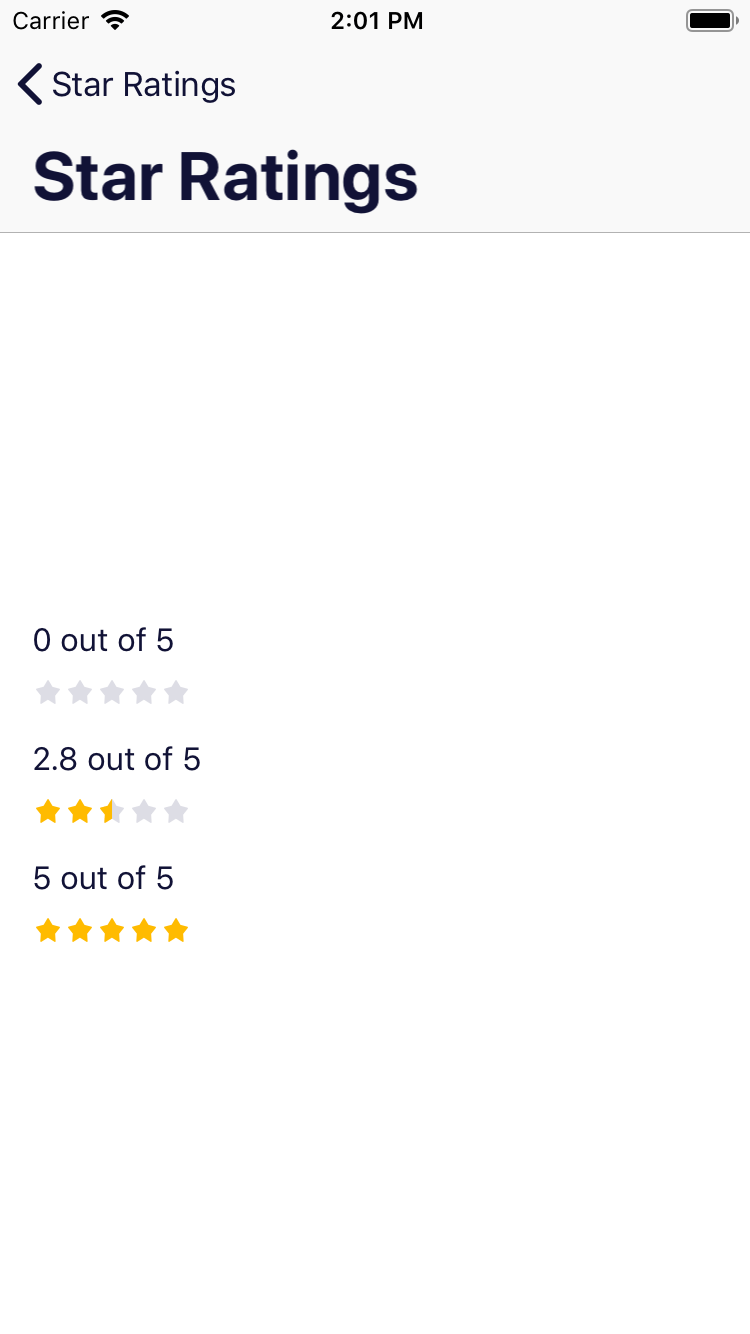
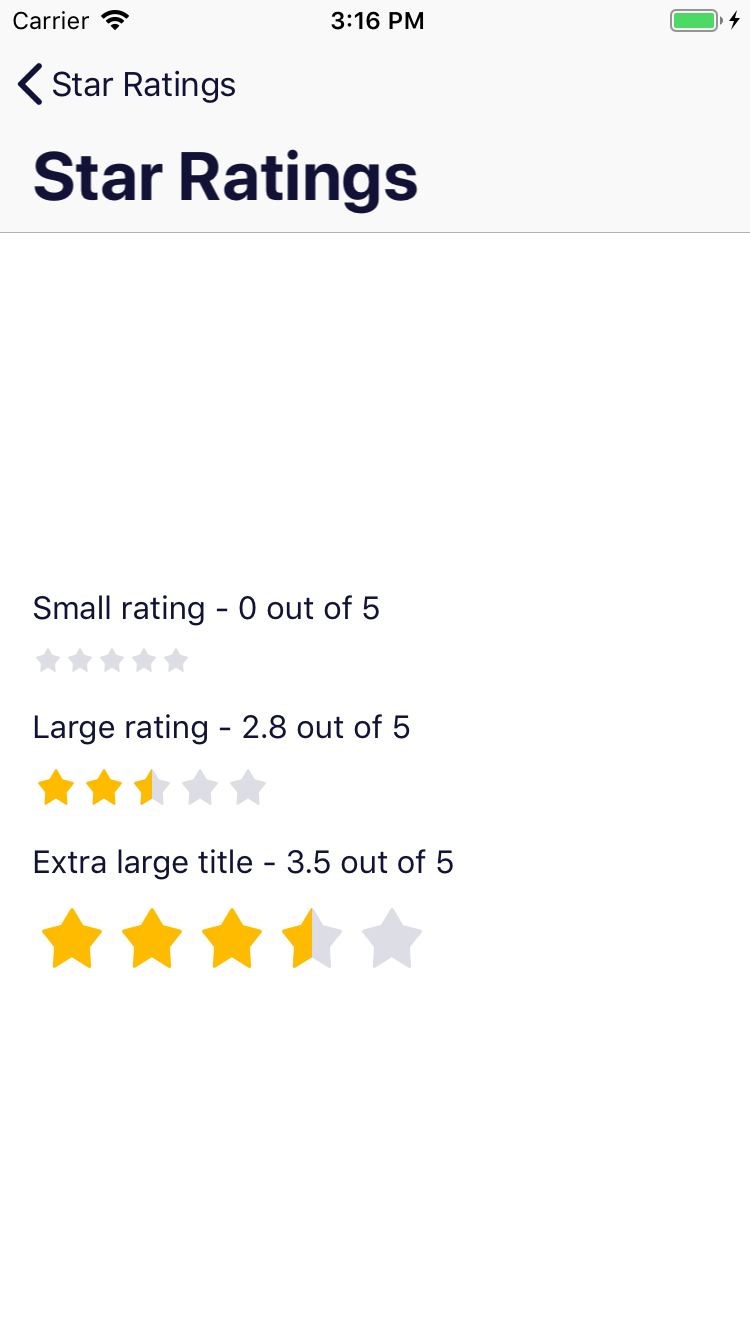
Star rating user interactive

diff --git a/Example/Backpack/View Controllers/StarRatingsDocViewController.swift b/Example/Backpack/View Controllers/StarRatingsDocViewController.swift
@@ -1,0 +1,47 @@
+//
+/*
+ * Backpack - Skyscanner's Design System
+ *
+ * Copyright © 2019 Skyscanner Ltd. All rights reserved.
+ *
+ * Licensed under the Apache License, Version 2.0 (the "License");
+ * you may not use this file except in compliance with the License.
+ * You may obtain a copy of the License at
+ *
+ *   http://www.apache.org/licenses/LICENSE-2.0
+ *
+ * Unless required by applicable law or agreed to in writing, software
+ * distributed under the License is distributed on an "AS IS" BASIS,
+ * WITHOUT WARRANTIES OR CONDITIONS OF ANY KIND, either express or implied.
+ * See the License for the specific language governing permissions and
+ * limitations under the License.
+ */
+
+import Foundation
+import Backpack
+
+class StarRatingsDocViewController: UIViewController {
+    @IBOutlet weak var smallRatingTitle: Label!
+    @IBOutlet weak var smallRating: StarRating!
+    @IBOutlet weak var largeRatingTitle: Label!
+    @IBOutlet weak var largeRating: StarRating!
+    @IBOutlet weak var extraLargeRatingTitle: Label!
+    @IBOutlet weak var extraLargeRating: StarRating!
+
+    override func viewDidLoad() {
+        // Setup titles
+        smallRatingTitle.text = "Small rating - 0 out of 5"
+        largeRatingTitle.text = "Large rating - 2.8 out of 5"
+        extraLargeRatingTitle.text = "Extra large title - 3.5 out of 5"
+
+        // Setup rating values
+        smallRating.rating = 0
+        largeRating.rating = 2.8
+        extraLargeRating.rating = 3.5
+
+        // Setup rating sizes
+        smallRating.size = .small
+        largeRating.size = .large
+        extraLargeRating.size = .xLarge
+    }
+}

diff --git a/Example/Backpack/View Controllers/StarRatingsViewController.swift b/Example/Backpack/View Controllers/StarRatingsViewController.swift
@@ -26,15 +26,19 @@ class StarRatingsViewController: UIViewController {
     @IBOutlet weak var starRatingView: StarRating!
     @IBOutlet weak var largeStarRatingView: StarRating!
     @IBOutlet weak var ratingSlider: UISlider!
+    @IBOutlet weak var extraLargeRatingView: StarRating!
     override func viewDidLoad() {
         starRatingView.rating = ratingSlider.value
         largeStarRatingView.rating = ratingSlider.value
         largeStarRatingView.size = .large
+        extraLargeRatingView.size = .xLarge
+        extraLargeRatingView.isUserInteractionEnabled = true
         updateLabels()
     }
     @IBAction func userDidChangeRating(_ sender: UISlider) {
         starRatingView.rating = sender.value
         largeStarRatingView.rating = sender.value
+        extraLargeRatingView.rating = sender.value
         updateLabels()
     }
     func updateLabels() {

diff --git a/Example/SnapshotTests/BPKStarRatingSnapshotTest.m b/Example/SnapshotTests/BPKStarRatingSnapshotTest.m
@@ -220,6 +220,100 @@
     [self verifyLargeRatingViewWithRating:6.0f];
 }
 
+#pragma mark - Extra Large star rating
+
+- (void)testExtraLargeStarRatingWithValue_minus {
+    [self verifyExtraLargeRatingViewWithRating:-1.0f];
+}
+
+- (void)testExtraLargeStarRatingWithValue_0_0 {
+    [self verifyExtraLargeRatingViewWithRating:0.0f];
+}
+
+- (void)testExtraLargeStarRatingWithValue_0_49 {
+    [self verifyExtraLargeRatingViewWithRating:0.49f];
+}
+
+- (void)testExtraLargeStarRatingWithValue_0_5 {
+    [self verifyExtraLargeRatingViewWithRating:0.5f];
+}
+
+- (void)testExtraLargeStarRatingWithValue_0_99 {
+    [self verifyExtraLargeRatingViewWithRating:0.99f];
+}
+
+- (void)testExtraLargeStarRatingWithValue_1_0 {
+    [self verifyExtraLargeRatingViewWithRating:1.0f];
+}
+
+- (void)testExtraLargeStarRatingWithValue_1_49 {
+    [self verifyExtraLargeRatingViewWithRating:1.49f];
+}
+
+- (void)testExtraLargeStarRatingWithValue_1_5 {
+    [self verifyExtraLargeRatingViewWithRating:1.5f];
+}
+
+- (void)testExtraLargeStarRatingWithValue_1_99 {
+    [self verifyExtraLargeRatingViewWithRating:1.99f];
+}
+
+- (void)testExtraLargeStarRatingWithValue_2_0 {
+    [self verifyExtraLargeRatingViewWithRating:2.0f];
+}
+
+- (void)testExtraLargeStarRatingWithValue_2_49 {
+    [self verifyExtraLargeRatingViewWithRating:2.49f];
+}
+
+- (void)testExtraLargeStarRatingWithValue_2_5 {
+    [self verifyExtraLargeRatingViewWithRating:2.5f];
+}
+
+- (void)testExtraLargeStarRatingWithValue_2_99 {
+    [self verifyExtraLargeRatingViewWithRating:2.99f];
+}
+
+- (void)testExtraLargeStarRatingWithValue_3_0 {
+    [self verifyExtraLargeRatingViewWithRating:3.0f];
+}
+
+- (void)testExtraLargeStarRatingWithValue_3_49 {
+    [self verifyExtraLargeRatingViewWithRating:3.49f];
+}
+
+- (void)testExtraLargeStarRatingWithValue_3_5 {
+    [self verifyExtraLargeRatingViewWithRating:3.5f];
+}
+
+- (void)testExtraLargeStarRatingWithValue_3_99 {
+    [self verifyExtraLargeRatingViewWithRating:3.99f];
+}
+
+- (void)testExtraLargeStarRatingWithValue_4_0 {
+    [self verifyExtraLargeRatingViewWithRating:4.0f];
+}
+
+- (void)testExtraLargeStarRatingWithValue_4_49 {
+    [self verifyExtraLargeRatingViewWithRating:4.49f];
+}
+
+- (void)testExtraLargeStarRatingWithValue_4_5 {
+    [self verifyExtraLargeRatingViewWithRating:4.5f];
+}
+
+- (void)testExtraLargeStarRatingWithValue_4_99 {
+    [self verifyExtraLargeRatingViewWithRating:4.99f];
+}
+
+- (void)testExtraLargeStarRatingWithValue_5_0 {
+    [self verifyExtraLargeRatingViewWithRating:5.0f];
+}
+
+- (void)testExtraLargeStarRatingWithValue_largerThan_5_0 {
+    [self verifyExtraLargeRatingViewWithRating:6.0f];
+}
+
 #pragma mark - Helpers
 
 - (void)verifySmallRatingViewWithRating:(float)rating {
@@ -228,6 +322,10 @@
 
 - (void)verifyLargeRatingViewWithRating:(float)rating {
     [self verifyRatingViewWithRating:rating size:BPKStarSizeLarge];
+}
+
+- (void)verifyExtraLargeRatingViewWithRating:(float)rating {
+    [self verifyRatingViewWithRating:rating size:BPKStarSizeXLarge];
 }
 
 - (void)verifyRatingViewWithRating:(float)rating size:(BPKStarSize)size {

diff --git a/Backpack/StarRating/Classes/BPKStarRating.m b/Backpack/StarRating/Classes/BPKStarRating.m
@@ -72,6 +72,11 @@ static NSUInteger const MAX_RATING = 5;
     _rating = 0.0;
     [self setupStackView];
     [self setupStars];
+
+    UITapGestureRecognizer *tapRecognizer =
+        [[UITapGestureRecognizer alloc] initWithTarget:self action:@selector(handleTapGesture:)];
+    [self addGestureRecognizer:tapRecognizer];
+    self.userInteractionEnabled = NO;
 }
 
 - (void)setupStackView {
@@ -92,6 +97,13 @@ static NSUInteger const MAX_RATING = 5;
         BPKStar *starView = [[BPKStar alloc] initWithSize:self.size];
         [_stackView addArrangedSubview:starView];
     }
+}
+
+- (void)handleTapGesture:(UITapGestureRecognizer *)recognizer {
+    CGPoint location = [recognizer locationInView:[recognizer.view superview]];
+    CGFloat starWidth = self.bounds.size.width / MAX_RATING;
+    CGFloat selectedItem = location.x / starWidth;
+    self.rating = (float)ceil(selectedItem);
 }
 
 #pragma mark - Properties

diff --git a/Backpack/Icon/Classes/BPKIcon.m b/Backpack/Icon/Classes/BPKIcon.m
@@ -210,6 +210,9 @@ NSString *const BPKIconFontName = @"BpkIconIOS";
     case BPKIconSizeLarge:
         sizeName = @"lg";
         break;
+    case BPKIconSizeXLarge:
+        sizeName = @"xl";
+        break;
     default:
         NSAssert(NO, @"Unknown icon size");
         sizeName = @"unknown";
@@ -225,11 +228,17 @@ NSString *const BPKIconFontName = @"BpkIconIOS";
     switch (size) {
     case BPKIconSizeSmall:
         return CGSizeMake(16, 16);
+        break;
     case BPKIconSizeLarge:
         return CGSizeMake(24, 24);
+        break;
+    case BPKIconSizeXLarge:
+        return CGSizeMake(40, 40);
+        break;
     default:
         NSAssert(NO, @"Unsupported icon size");
         return CGSizeMake(16, 16);
+        break;
     }
 }
 

diff --git a/Backpack/StarRating/Classes/BPKStar.h b/Backpack/StarRating/Classes/BPKStar.h
@@ -26,7 +26,7 @@ typedef NS_ENUM(NSInteger, BPKStarState) { BPKStarStateDefault, BPKStarStateHalf
 /**
  * Enum values for specifying star size
  */
-typedef NS_ENUM(NSUInteger, BPKStarSize) { BPKStarSizeSmall, BPKStarSizeLarge };
+typedef NS_ENUM(NSUInteger, BPKStarSize) { BPKStarSizeSmall, BPKStarSizeLarge, BPKStarSizeXLarge };
 
 NS_ASSUME_NONNULL_BEGIN
 

diff --git a/Backpack/StarRating/Classes/BPKStar.m b/Backpack/StarRating/Classes/BPKStar.m
@@ -150,10 +150,12 @@ NS_ASSUME_NONNULL_BEGIN
 
 - (BPKIconSize)iconSizeForStarSize:(BPKStarSize)size {
     switch (size) {
+    case BPKStarSizeXLarge:
+        return BPKIconSizeXLarge;
+        break;
     case BPKStarSizeLarge:
         return BPKIconSizeLarge;
         break;
-
     default:
     case BPKStarSizeSmall:
         return BPKIconSizeSmall;

diff --git a/Backpack/Icon/Classes/BPKIcon.h b/Backpack/Icon/Classes/BPKIcon.h
@@ -20,7 +20,7 @@
 #import "BPKIconNames.h"
 
 NS_ASSUME_NONNULL_BEGIN
-typedef NS_ENUM(NSUInteger, BPKIconSize) { BPKIconSizeSmall, BPKIconSizeLarge };
+typedef NS_ENUM(NSUInteger, BPKIconSize) { BPKIconSizeSmall, BPKIconSizeLarge, BPKIconSizeXLarge };
 
 @class UIImage;
 

diff --git a/Backpack/StarRating/README.md b/Backpack/StarRating/README.md
@@ -2,7 +2,8 @@
 
 ## Usage
 
-`BPKStarRating`/`Backpack.StarRating` contains the Backpack Star rating component which is a view that's rendering star shaped items filled with color to indicate rating from 0.0 to 5.0. It supports two sizes considering the available `BPKIcon` sizes.
+`BPKStarRating`/`Backpack.StarRating` contains the Backpack Star rating component which is a view that's rendering star shaped items filled with color to indicate rating from 0.0 to 5.0. It supports three sizes considering the available `BPKIcon` sizes.
+By default `userInteractionEnabled` is set to `NO` but we can change this value to `YES` to allow the users to change the rating value by tapping the component
 
 ### Objective-C
 
@@ -11,7 +12,7 @@ Small stars
 #import <Backpack/StarRating.h>
 
 BPKStarRating *starRating = [[BPKStarRating alloc] initWithSize:BPKStarSizeSmall];
-[button setRating:2.5];
+starRating.rating = 2.5;
 // Position star rating with autolayout or other method
 ```
 
@@ -20,7 +21,17 @@ Large stars
 #import <Backpack/StarRating.h>
 
 BPKStarRating *starRating = [[BPKStarRating alloc] initWithSize:BPKStarSizeLarge];
-[button setRating:2.5];
+starRating.rating = 2.5;
+// Position star rating with autolayout or other method
+```
+
+Extra Large stars with user interaction
+```objective-c
+#import <Backpack/StarRating.h>
+
+BPKStarRating *starRating = [[BPKStarRating alloc] initWithSize:BPKStarSizeXLarge];
+starRating.rating = 2.5;
+starRating.userInteractionEnabled = YES;
 // Position star rating with autolayout or other method
 ```
 
@@ -41,6 +52,16 @@ import Backpack
 
 let starRating = Backpack.StarRating(size: .large)
 starRating.rating = 2.5
+// Position button with autolayout or other method
+```
+
+Extra Large stars with user interaction
+```swift
+import Backpack
+
+let starRating = Backpack.StarRating(size: .xLarge)
+starRating.rating = 2.5
+starRating.userInteractionEnabled = true
 // Position button with autolayout or other method
 ```
 

diff --git a/UNRELEASED.md b/UNRELEASED.md
@@ -5,6 +5,9 @@
 - Backpack/Rating:
   - New `layout` and `size` properties.
 
+- Backpack/StarRating
+  - New `BPKStarSizeXLarge` size and user interaction feature
+
 ## How to write a good changelog entry
 
 1. Add 'Breaking', 'Added' or 'Fixed' in bold depending on if the change will be major, minor or patch according to [semver](semver.org).
